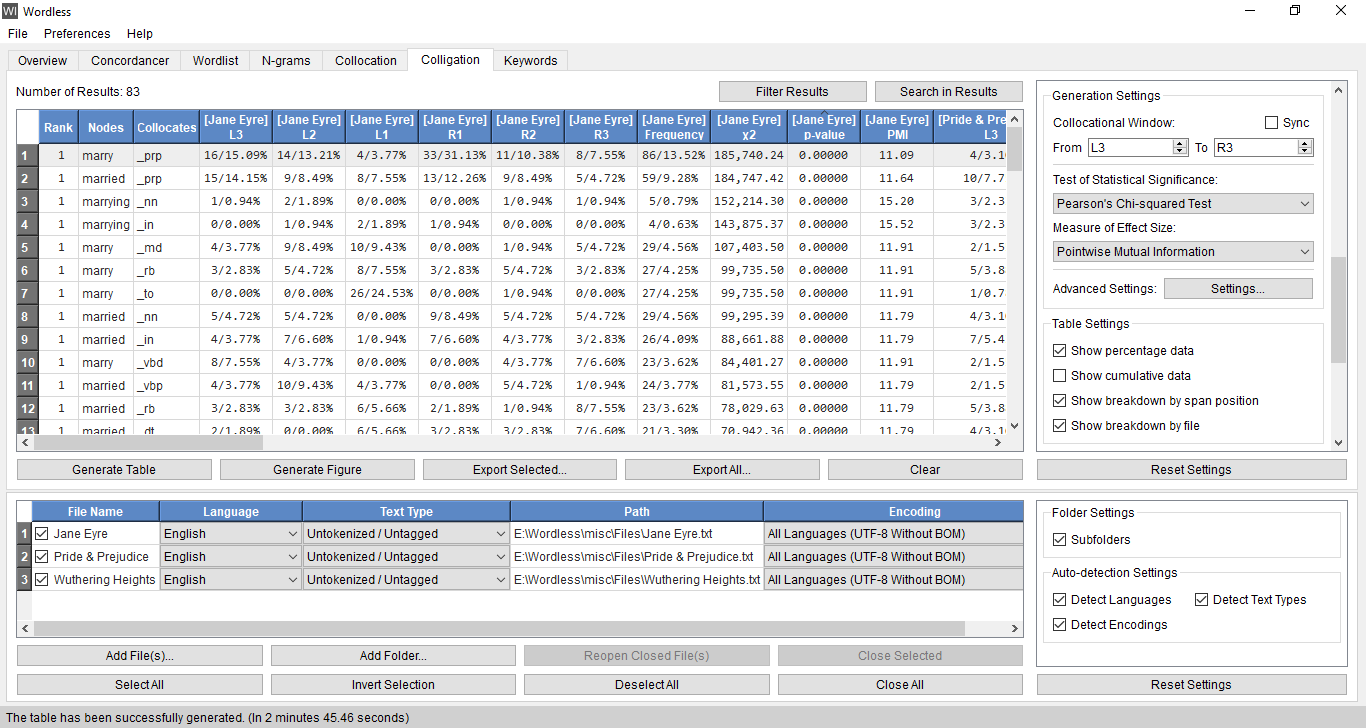
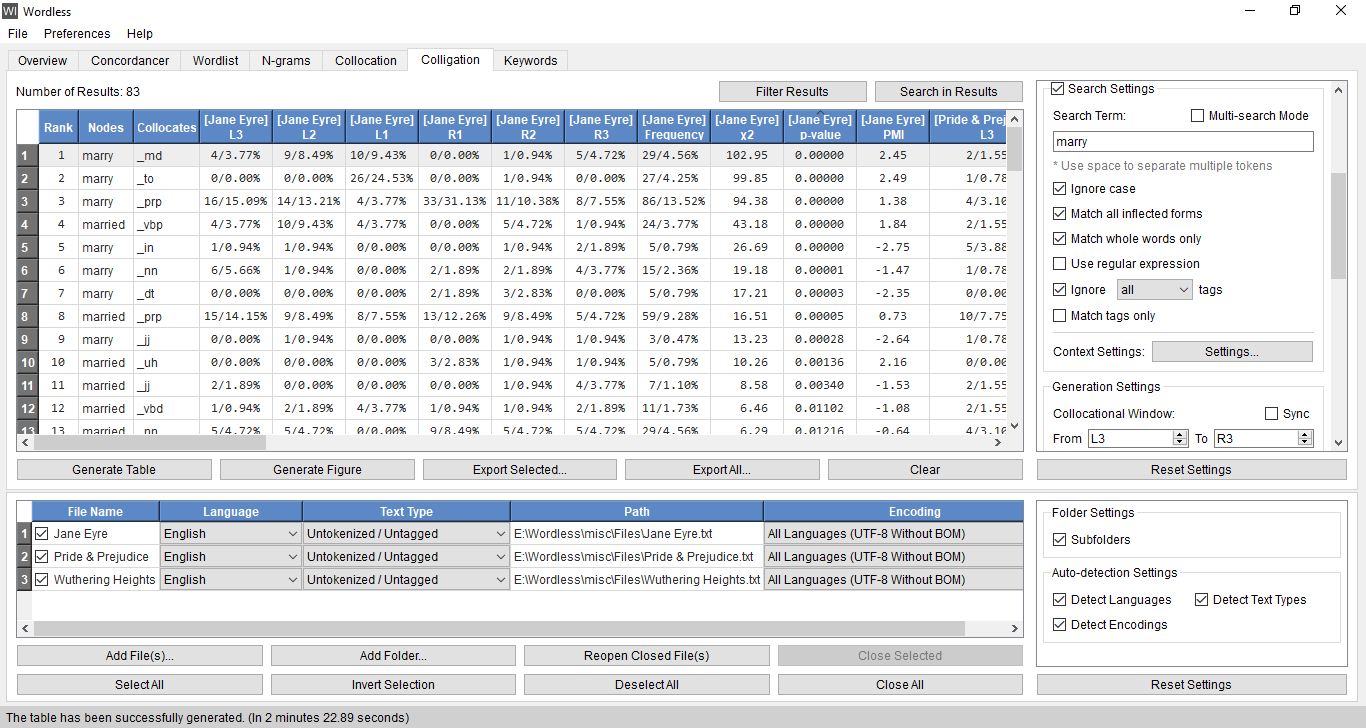
Update "Colligation"

diff --git a/src/wordless_colligation.py b/src/wordless_colligation.py
@@ -11,6 +11,7 @@
 
 import collections
 import copy
+import operator
 import re
 import time
 
@@ -634,14 +635,13 @@ class Wordless_Worker_Process_Data_Colligation(wordless_threading.Wordless_Worke
     def __init__(self, main, dialog_progress, data_received):
         super().__init__(main, dialog_progress, data_received)
 
-        self.collocates_freqs_files = []
-        self.collocates_stats_files = []
+        self.colligations_freqs_files = []
+        self.colligations_stats_files = []
         self.nodes_text = {}
 
     def process_data(self):
         texts = []
-        ngrams_freq_files = []
-        pos_tags_freq_files = []
+        colligations_freqs_files_all = []
 
         settings = self.main.settings_custom['colligation']
 
@@ -661,8 +661,8 @@ class Wordless_Worker_Process_Data_Colligation(wordless_threading.Wordless_Worke
 
         # Frequency
         for i, file in enumerate(files):
-            collocates_freqs_file = {}
-            collocates_tokens = []
+            colligations_freqs_file = {}
+            colligations_freqs_file_all = {}
 
             text = wordless_text.Wordless_Text(self.main, file)
 
@@ -712,87 +712,91 @@ class Wordless_Worker_Process_Data_Colligation(wordless_threading.Wordless_Worke
                 len_search_term_max = 1
 
             for ngram_size in range(len_search_term_min, len_search_term_max + 1):
+                if ngram_size not in colligations_freqs_files_all:
+                    colligations_freqs_file_all[ngram_size] = collections.Counter()
+
                 for i, ngram in enumerate(nltk.ngrams(tokens, ngram_size)):
                     for j, collocate in enumerate(reversed(text.tags_pos[max(0, i - window_size_left) : i])):
                         if wordless_matching.check_context(i, tokens,
                                                            context_settings = settings['context_settings'],
                                                            search_terms_inclusion = search_terms_inclusion,
                                                            search_terms_exclusion = search_terms_exclusion):
-                            if (ngram, collocate) not in collocates_freqs_file:
-                                collocates_freqs_file[(ngram, collocate)] = [0] * window_size
+                            if (ngram, collocate) not in colligations_freqs_file:
+                                colligations_freqs_file[(ngram, collocate)] = [0] * window_size
 
-                            collocates_freqs_file[(ngram, collocate)][window_size_left - 1 - j] += 1
+                            colligations_freqs_file[(ngram, collocate)][window_size_left - 1 - j] += 1
 
-                            collocates_tokens.append(tokens[max(0, i - window_size_left) : i][j])
+                        colligations_freqs_file_all[ngram_size][(ngram, collocate)] += 1
 
                     for j, collocate in enumerate(text.tags_pos[i + ngram_size: i + ngram_size + window_size_right]):
                         if wordless_matching.check_context(i, tokens,
                                                            context_settings = settings['context_settings'],
                                                            search_terms_inclusion = search_terms_inclusion,
                                                            search_terms_exclusion = search_terms_exclusion):
-                            if (ngram, collocate) not in collocates_freqs_file:
-                                collocates_freqs_file[(ngram, collocate)] = [0] * window_size
+                            if (ngram, collocate) not in colligations_freqs_file:
+                                colligations_freqs_file[(ngram, collocate)] = [0] * window_size
 
-                            collocates_freqs_file[(ngram, collocate)][window_size_left + j] += 1
+                            colligations_freqs_file[(ngram, collocate)][window_size_left + j] += 1
 
-                            collocates_tokens.append(tokens[i + ngram_size: i + ngram_size + window_size_right][j])
+                        colligations_freqs_file_all[ngram_size][(ngram, collocate)] += 1
 
-            collocates_freqs_file = {(ngram, collocate): freqs
-                                     for (ngram, collocate), freqs in collocates_freqs_file.items()
+            colligations_freqs_file = {(ngram, collocate): freqs
+                                     for (ngram, collocate), freqs in colligations_freqs_file.items()
                                      if all(ngram) and collocate}
 
             # Filter search terms
             if settings['search_settings']['search_settings']:
-                collocates_freqs_file_filtered = {}
+                colligations_freqs_file_filtered = {}
 
                 for search_term in search_terms:
                     len_search_term = len(search_term)
 
-                    for (node, collocate), freqs in collocates_freqs_file.items():
+                    for (node, collocate), freqs in colligations_freqs_file.items():
                         for ngram in nltk.ngrams(node, len_search_term):
                             if ngram == search_term:
-                                collocates_freqs_file_filtered[(node, collocate)] = freqs
+                                colligations_freqs_file_filtered[(node, collocate)] = freqs
 
-                self.collocates_freqs_files.append(collocates_freqs_file_filtered)
+                self.colligations_freqs_files.append(colligations_freqs_file_filtered)
             else:
-                self.collocates_freqs_files.append(collocates_freqs_file)
+                self.colligations_freqs_files.append(colligations_freqs_file)
 
-            # Frequency (Tokens)
-            for i in range(len_search_term_min, len_search_term_max + 1):
-                    ngrams_freq_files.append(collections.Counter(nltk.ngrams(tokens, i)))
-
-            # Frequency (POS tags)
-            pos_tags_freq_files.append(collections.Counter(text.tags_pos))
+            # Frequency (All)
+            colligations_freqs_files_all.append(colligations_freqs_file_all)
 
             # Nodes Text
             if settings['token_settings']['use_tags']:
-                for (node, collocate) in collocates_freqs_file:
+                for (node, collocate) in colligations_freqs_file:
                     self.nodes_text[node] = wordless_text_processing.wordless_word_detokenize(self.main, node, text.lang_code)
             else:
-                for (node, collocate) in collocates_freqs_file:
+                for (node, collocate) in colligations_freqs_file:
                     self.nodes_text[node] = ' '.join(node)
 
             texts.append(text)
 
         # Total
         if len(files) > 1:
-            collocates_freqs_total = {}
+            colligations_freqs_total = {}
+            colligations_freqs_total_all = {}
 
-            text_total = wordless_text.Wordless_Text_Blank()
-            text_total.tokens = [token for text in texts for token in text.tokens]
+            texts.append(wordless_text.Wordless_Text_Blank())
 
-            texts.append(text_total)
-            ngrams_freq_files.append(sum(ngrams_freq_files, collections.Counter()))
-            pos_tags_freq_files.append(sum(pos_tags_freq_files, collections.Counter()))
-
-            for collocates_freqs_file in self.collocates_freqs_files:
-                for collocate, freqs in collocates_freqs_file.items():
-                    if collocate not in collocates_freqs_total:
-                        collocates_freqs_total[collocate] = numpy.array(freqs)
+            # Frequency
+            for colligations_freqs_file in self.colligations_freqs_files:
+                for colligation, freqs in colligations_freqs_file.items():
+                    if colligation not in colligations_freqs_total:
+                        colligations_freqs_total[colligation] = freqs
                     else:
-                        collocates_freqs_total[collocate] += numpy.array(freqs)
+                        colligations_freqs_total[colligation] = list(map(operator.add, colligations_freqs_total[colligation], freqs))
+            # Frequency (All)
+            for colligations_freqs_file_all in colligations_freqs_files_all:
+                for ngram_size, colligations_freqs in colligations_freqs_file_all.items():
+                    if ngram_size not in colligations_freqs_total_all:
+                        colligations_freqs_total_all[ngram_size] = collections.Counter()
 
-            self.collocates_freqs_files.append(collocates_freqs_total)
+                    colligations_freqs_total_all[ngram_size] += colligations_freqs
+
+            self.colligations_freqs_files.append(colligations_freqs_total)
+            colligations_freqs_files_all.append(colligations_freqs_total_all)
 
         self.progress_updated.emit(self.tr('Processing data ...'))
 
@@ -803,36 +807,44 @@ class Wordless_Worker_Process_Data_Colligation(wordless_threading.Wordless_Worke
         test_significance = self.main.settings_global['tests_significance']['collocation'][text_test_significance]['func']
         measure_effect_size = self.main.settings_global['measures_effect_size']['collocation'][text_measure_effect_size]['func']
 
-        collocates_total = self.collocates_freqs_files[-1].keys()
+        colligations_total = self.colligations_freqs_files[-1].keys()
 
-        for text, ngrams_freq_file, pos_tags_freq_file, collocates_freqs_file in zip(texts,
-                                                                                     ngrams_freq_files,
-                                                                                     pos_tags_freq_files,
-                                                                                     self.collocates_freqs_files):
-            collocates_stats_file = {}
+        for text, colligations_freqs_file, colligations_freqs_file_all in zip(texts,
+                                                                              self.colligations_freqs_files,
+                                                                              colligations_freqs_files_all):
+            colligations_stats_file = {}
+            c1xs = collections.Counter()
+            cx1s = collections.Counter()
+            cxxs = {}
 
-            len_tokens = len(text.tokens)
+            # C1x & Cx1
+            for ngram_size, colligations_freqs in colligations_freqs_file_all.items():
+                for (node, collocate), freq in colligations_freqs.items():
+                    c1xs[collocate] += freq
+                    cx1s[node] += freq
 
-            for node, collocate in collocates_total:
-                len_node = len(node)
+            # Cxx
+            for ngram_size, colligations_freqs in colligations_freqs_file_all.items():
+                cxxs[ngram_size] = sum(colligations_freqs.values())
 
-                if (node, collocate) in collocates_freqs_file:
-                    c11 = sum(collocates_freqs_file[(node, collocate)])
+            for node, collocate in colligations_total:
+                if (node, collocate) in colligations_freqs_file:
+                    c11 = sum(colligations_freqs_file[(node, collocate)])
                 else:
                     c11 = 0
 
-                c12 = max(0, pos_tags_freq_file[(collocate,)] - c11)
-                c21 = max(0, ngrams_freq_file[node] - c11)
-                c22 = len_tokens - c11 - c12 - c21
+                c12 = c1xs[collocate] - c11
+                c21 = cx1s[node] - c11
+                c22 = cxxs[len(node)] - c11 - c12 - c21
 
-                collocates_stats_file[(node, collocate)] = test_significance(self.main, c11, c12, c21, c22)
-                collocates_stats_file[(node, collocate)].append(measure_effect_size(self.main, c11, c12, c21, c22))
+                colligations_stats_file[(node, collocate)] = test_significance(self.main, c11, c12, c21, c22)
+                colligations_stats_file[(node, collocate)].append(measure_effect_size(self.main, c11, c12, c21, c22))
 
-            self.collocates_stats_files.append(collocates_stats_file)
+            self.colligations_stats_files.append(colligations_stats_file)
 
         if len(files) == 1:
-            self.collocates_freqs_files *= 2
-            self.collocates_stats_files *= 2
+            self.colligations_freqs_files *= 2
+            self.colligations_stats_files *= 2
 
 class Wordless_Worker_Process_Data_Colligation_Table(Wordless_Worker_Process_Data_Colligation):
     def process_data(self):
@@ -842,8 +854,8 @@ class Wordless_Worker_Process_Data_Colligation_Table(Wordless_Worker_Process_Dat
 
         time.sleep(0.1)
 
-        self.processing_finished.emit(wordless_misc.merge_dicts(self.collocates_freqs_files),
-                                      wordless_misc.merge_dicts(self.collocates_stats_files),
+        self.processing_finished.emit(wordless_misc.merge_dicts(self.colligations_freqs_files),
+                                      wordless_misc.merge_dicts(self.colligations_stats_files),
                                       self.nodes_text)
 
 class Wordless_Worker_Process_Data_Colligation_Fig(Wordless_Worker_Process_Data_Colligation):
@@ -854,14 +866,14 @@ class Wordless_Worker_Process_Data_Colligation_Fig(Wordless_Worker_Process_Data_
 
         time.sleep(0.1)
 
-        self.processing_finished.emit(wordless_misc.merge_dicts(self.collocates_freqs_files),
-                                      wordless_misc.merge_dicts(self.collocates_stats_files),
+        self.processing_finished.emit(wordless_misc.merge_dicts(self.colligations_freqs_files),
+                                      wordless_misc.merge_dicts(self.colligations_stats_files),
                                       self.nodes_text)
 
 @wordless_misc.log_timing
 def generate_table(main, table):
-    def data_received(collocates_freqs_files, collocates_stats_files, nodes_text):
-        if collocates_freqs_files:
+    def data_received(colligations_freqs_files, colligations_stats_files, nodes_text):
+        if colligations_freqs_files:
             table.clear_table()
 
             table.settings = main.settings_custom
@@ -978,10 +990,10 @@ def generate_table(main, table):
             table.setSortingEnabled(False)
             table.setUpdatesEnabled(False)
 
-            table.setRowCount(len(collocates_freqs_files))
+            table.setRowCount(len(colligations_freqs_files))
 
-            for i, ((node, collocate), stats_files) in enumerate(wordless_sorting.sorted_collocates_stats_files(collocates_stats_files)):
-                freqs_files = collocates_freqs_files[(node, collocate)]
+            for i, ((node, collocate), stats_files) in enumerate(wordless_sorting.sorted_collocations_stats_files(colligations_stats_files)):
+                freqs_files = colligations_freqs_files[(node, collocate)]
 
                 # Rank
                 table.set_item_num_int(i, 0, -1)
@@ -1065,8 +1077,8 @@ def generate_table(main, table):
 
 @wordless_misc.log_timing
 def generate_fig(main):
-    def data_received(collocates_freqs_files, collocates_stats_files, nodes_text):
-        if collocates_freqs_files:
+    def data_received(colligations_freqs_file, colligations_stats_files, nodes_text):
+        if colligations_freqs_file:
             text_test_significance = settings['generation_settings']['test_significance']
             text_measure_effect_size = settings['generation_settings']['measure_effect_size']
 
@@ -1085,40 +1097,40 @@ def generate_fig(main):
                     span_position = span_positions.index(int(settings['fig_settings']['use_data'][1:]))
 
                 collocates_freq_files = {', '.join([nodes_text[node], collocate]): numpy.array(freqs)[:, span_position]
-                                         for (node, collocate), freqs in collocates_freqs_files.items()}
+                                         for (node, collocate), freqs in colligations_freqs_file.items()}
 
                 wordless_fig_freq.wordless_fig_freq(main, collocates_freq_files,
                                                     settings = settings['fig_settings'],
                                                     label_x = main.tr('Collocates'))
             elif settings['fig_settings']['use_data'] == main.tr('Frequency'):
                 collocates_freq_files = {', '.join([nodes_text[node], collocate]): numpy.array(freqs).sum(axis = 1)
-                                         for (node, collocate), freqs in collocates_freqs_files.items()}
+                                         for (node, collocate), freqs in colligations_freqs_file.items()}
 
                 wordless_fig_freq.wordless_fig_freq(main, collocates_freq_files,
                                                     settings = settings['fig_settings'],
                                                     label_x = main.tr('Collocates'))
             else:
-                collocates_stats_files = {', '.join([nodes_text[node], collocate]): freqs
-                                          for (node, collocate), freqs in collocates_stats_files.items()}
+                colligations_stats_files = {', '.join([nodes_text[node], collocate]): freqs
+                                          for (node, collocate), freqs in colligations_stats_files.items()}
 
                 if settings['fig_settings']['use_data'] == text_test_stat:
                     collocates_stat_files = {collocate: numpy.array(stats_files)[:, 0]
-                                             for collocate, stats_files in collocates_stats_files.items()}
+                                             for collocate, stats_files in colligations_stats_files.items()}
 
                     label_y = text_test_stat
                 elif settings['fig_settings']['use_data'] == text_p_value:
                     collocates_stat_files = {collocate: numpy.array(stats_files)[:, 1]
-                                             for collocate, stats_files in collocates_stats_files.items()}
+                                             for collocate, stats_files in colligations_stats_files.items()}
 
                     label_y = text_p_value
                 elif settings['fig_settings']['use_data'] == text_bayes_factor:
                     collocates_stat_files = {collocate: numpy.array(stats_files)[:, 2]
-                                             for collocate, stats_files in collocates_stats_files.items()}
+                                             for collocate, stats_files in colligations_stats_files.items()}
 
                     label_y = text_bayes_factor
                 elif settings['fig_settings']['use_data'] == text_effect_size:
                     collocates_stat_files = {collocate: numpy.array(stats_files)[:, 3]
-                                             for collocate, stats_files in collocates_stats_files.items()}
+                                             for collocate, stats_files in colligations_stats_files.items()}
 
                     label_y = text_effect_size
 
@@ -1135,7 +1147,7 @@ def generate_fig(main):
 
         dialog_progress.accept()
 
-        if collocates_freqs_files:
+        if colligations_freqs_file:
             wordless_fig.show_fig()
 
     settings = main.settings_custom['colligation']
